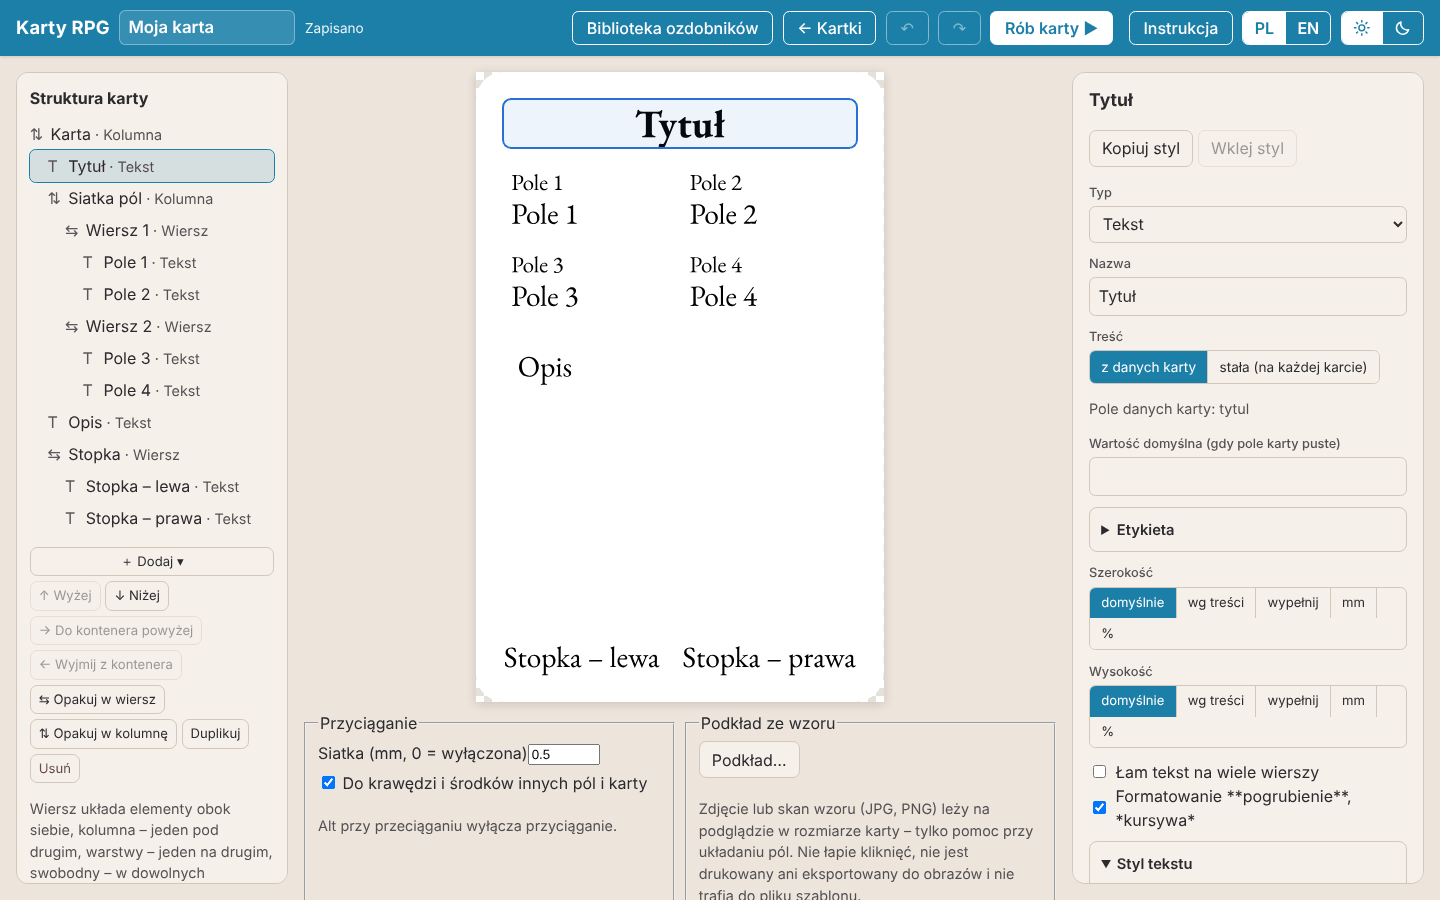
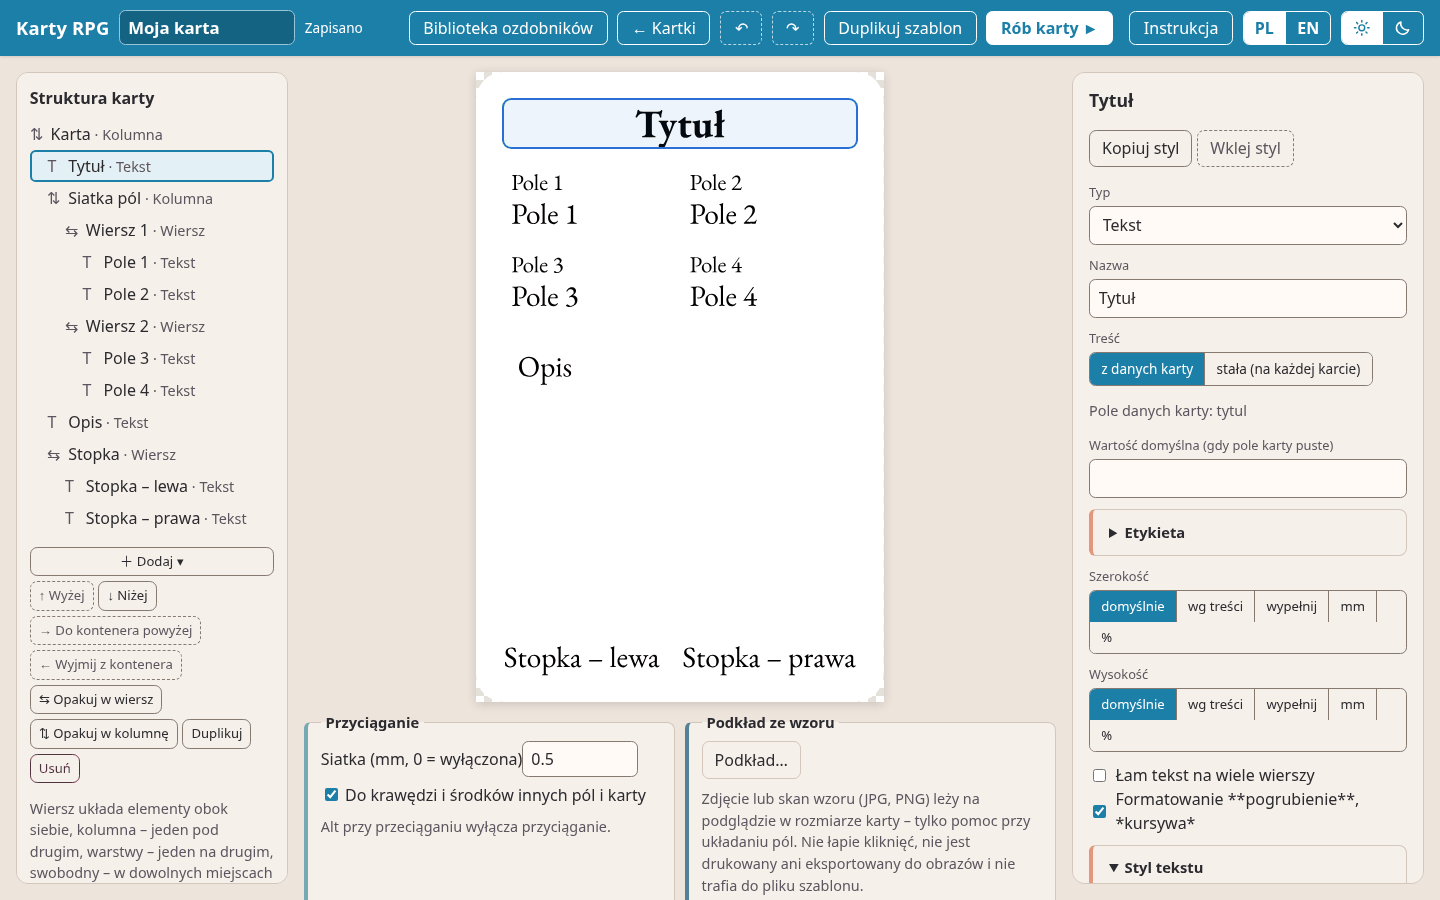
UI-9: uzupełnij README i galerię widoków PL i EN

diff --git a/testy/zrzuty-instrukcji.spec.ts b/testy/zrzuty-instrukcji.spec.ts
@@ -17,6 +17,9 @@ import {
  * ze słowników, więc test nie psuje się po zmianie brzmienia przycisku.
  */
 
+const galeria = process.env.ZRZUTY_UI === '1';
+const motywy = galeria ? (['light', 'dark'] as const) : (['light'] as const);
+
 const SLOWNIKI: Record<JezykZrzutu, Slownik> = { pl, en };
 const LOCALE: Record<JezykZrzutu, string> = { pl: 'pl-PL', en: 'en-US' };
 
@@ -32,27 +35,27 @@ const goly = (tekst: string) =>
 
 const dokladnie = (t: string) => t.replace(/[.*+?^${}()|[\]\\]/g, '\\$&');
 
-for (const jezyk of JEZYKI_ZRZUTOW) {
+for (const [jezyk, motyw] of JEZYKI_ZRZUTOW.flatMap((j) => motywy.map((m) => [j, m] as const))) {
   const S = SLOWNIKI[jezyk];
   const t = (k: keyof Slownik, p?: Record<string, string | number>) => podstaw(S[k], p);
 
-  test.describe(`zrzuty instrukcji (${jezyk})`, () => {
-    test.skip(!process.env.ZRZUTY_INSTRUKCJI, 'tylko przy ZRZUTY_INSTRUKCJI=1');
+  test.describe(`zrzuty ${galeria ? 'UI' : 'instrukcji'} (${jezyk}, ${motyw})`, () => {
+    test.skip(!galeria && !process.env.ZRZUTY_INSTRUKCJI, 'tylko przy włączonym generatorze');
     test.use({
       viewport: ROZMIAR_ZRZUTU,
       deviceScaleFactor: 1,
       locale: LOCALE[jezyk],
-      colorScheme: 'light',
+      colorScheme: motyw,
       reducedMotion: 'reduce',
     });
 
     test.beforeEach(async ({ page }) => {
       await page.addInitScript(
-        ([klucz, wartosc]) => {
-          localStorage.setItem(klucz!, wartosc!);
-          localStorage.setItem('karty.motyw', 'light');
+        ({ jezyk, motyw }) => {
+          localStorage.setItem('karty.jezyk', jezyk);
+          localStorage.setItem('karty.motyw', motyw);
         },
-        ['karty.jezyk', jezyk],
+        { jezyk, motyw },
       );
     });
 
@@ -62,7 +65,11 @@ for (const jezyk of JEZYKI_ZRZUTOW) {
       const status = page.locator('.status-zapisu');
       if (await status.count()) await expect(status).toHaveText(t('projekt.zapisano'));
       await page.mouse.move(0, 0);
-      await page.screenshot({ path: sciezkaZrzutu(jezyk, nazwa) });
+      await page.screenshot({
+        path: galeria
+          ? `docs/obrazy/ui-9/${jezyk}/${motyw}/${nazwa}.png`
+          : sciezkaZrzutu(jezyk, nazwa),
+      });
     };
 
     const nowaKartka = async (page: Page) => {
@@ -111,6 +118,7 @@ for (const jezyk of JEZYKI_ZRZUTOW) {
         .getByRole('menuitem', { name: new RegExp(`^${dokladnie(t('pakiet.typ.bron'))}`) })
         .click();
       await expect(page.getByRole('complementary', { name: t('kartka.panelKart') })).toBeVisible();
+      if (galeria) await zapisz(page, 'karta-zaznaczona');
       await slot(page, 4).click();
       await expect(page.getByRole('menu')).toBeVisible();
       await zapisz(page, 'edytor-kartki');
@@ -118,6 +126,10 @@ for (const jezyk of JEZYKI_ZRZUTOW) {
 
     test('edytor szablonu z panelem właściwości', async ({ page }) => {
       await page.goto('./#/wlasne/nowy');
+      if (galeria) {
+        await expect(page.getByRole('heading', { name: t('kreator.tytul') })).toBeVisible();
+        await zapisz(page, 'kreator');
+      }
       await page.locator('label.format', { hasText: t('kreator.format.mini-euro') }).click();
       await page
         .locator('label.uklad', { hasText: t('kreator.uklad.tytul-siatka-opis-stopka') })
@@ -137,6 +149,13 @@ for (const jezyk of JEZYKI_ZRZUTOW) {
       ).toBeVisible();
       await expect(page.locator('.karta-podgladu')).toBeVisible();
       await zapisz(page, 'edytor-szablonu');
+      if (galeria) {
+        await page.getByRole('link', { name: t('biblioteka.tytul'), exact: true }).click();
+        await expect(
+          page.getByRole('heading', { level: 2, name: t('biblioteka.tytul') }),
+        ).toBeVisible();
+        await zapisz(page, 'biblioteka');
+      }
     });
 
     test('ustawienia kartki: kalibracja drukarki', async ({ page }) => {
@@ -151,5 +170,22 @@ for (const jezyk of JEZYKI_ZRZUTOW) {
         .evaluate((el) => el.scrollIntoView({ block: 'start' }));
       await zapisz(page, 'ustawienia');
     });
+    if (galeria) {
+      test('własne karty', async ({ page }) => {
+        await page.goto('./#/wlasne');
+        await expect(page.locator('[data-podglad] .papier-svg svg')).toHaveCount(6, {
+          timeout: 15000,
+        });
+        await zapisz(page, 'wlasne');
+      });
+
+      test('instrukcja', async ({ page }) => {
+        await page.goto(`./instrukcja/?lang=${jezyk}`);
+        await expect(page.getByRole('heading', { level: 1 })).toHaveText(
+          jezyk === 'pl' ? 'Instrukcja' : 'Guide',
+        );
+        await zapisz(page, 'instrukcja');
+      });
+    }
   });
 }

diff --git a/docs/plan-UI.md b/docs/plan-UI.md
@@ -30,11 +30,11 @@ Po przebudowie:
 - aplikacja ma **jasny i ciemny motyw** w jednej palecie, przełączany u góry po prawej i zapamiętany;
 - w edytorach działają poprawki z sekcji 3.9: duplikowanie szablonu, liczba kopii od razu, przeciąganie pól między kontenerami, wspólna zmiana rozmiaru wielu pól, drobne poprawki wyglądu przykładów.
 
-**Kryterium ukończenia:** wszystkie testy dotychczasowe zielone (wzorce PNG kart, arkuszy i przykładów A–F **nie zmieniają się**, bo generuje je silnik), nowe testy z sekcji 4, a ekrany wyglądają jak makiety w obu motywach i obu językach.
+**Kryterium ukończenia:** dotychczasowe i nowe testy z sekcji 4 są zielone. Wzorce PNG zmieniamy tylko dla zaplanowanych poprawek wyglądu (w UI-8 dotyczyło to tytułu przykładu F). Ekrany przedstawia [galeria w obu motywach i obu językach](obrazy/ui-9/README.md).
 
 Poza zakresem: nowe funkcje silnika, zmiany PDF i formatu plików, kolejne gry, urządzenia dotykowe (układ zaczyna się od szerokości ok. 900 px, na węższych kolumny układają się jedna pod drugą).
 
-## 2. Stan dziś
+## 2. Stan przed przebudową
 
 | Potrzeba                        | Stan | Uwagi                                                                                                                                             |
 | ------------------------------- | ---- | ------------------------------------------------------------------------------------------------------------------------------------------------- |
@@ -306,3 +306,5 @@ Rozstrzygnięcia przyjęte w trakcie UI, których plan nie przesądza. Numeracja
 | B212 | UI-8 | Egzemplarze kart                                | Liczba dotyczy grupy oryginału także po zaznaczeniu kopii. Opcjonalne odwołanie do oryginału i numer utworzenia przechodzą przez zapis oraz zmianę układu. W starych projektach karty bez tej informacji pozostają samodzielne. Usunięcie oryginału pozostawia jego kopie jako samodzielne karty. Pole jest dostępne dla pojedynczej zaznaczonej karty. W mieszanym układzie uwzględnia zapisaną liczbę sztuk w rekordzie oraz pomija odłożone karty.                                                                                                                                                                                                                                                                                                                                                                                                                                                                                                                                                                                                                                                                                                                                                                               |
 | B213 | UI-8 | Duplikowanie szablonu                           | Pasek edytora pozostaje na oryginale i pokazuje link do kopii. Cofnij i Ponów są dostępne po utworzeniu kopii. W ustawieniach kartki kopia pojawia się na liście szablonów projektu.                                                                                                                                                                                                                                                                                                                                                                                                                                                                                                                                                                                                                                                                                                                                                                                                                                                                                                                                                                                                                                                |
 | B214 | UI-8 | Przenoszenie i rozmiar                          | Innym celem może być zagnieżdżony kontener pod kursorem, również w bieżącym rodzicu. W układzie swobodnym upuszczenie zachowuje punkt chwytu względem pola. Skalowanie obejmuje zaznaczenie z jednego rodzica, a pola szerokości i wysokości skalują od lewego górnego rogu.                                                                                                                                                                                                                                                                                                                                                                                                                                                                                                                                                                                                                                                                                                                                                                                                                                                                                                                                                        |
+| B215 | UI-9 | Fokus i klawiatura                              | Aplikacja ma główny region, odnośnik pomijający pasek i przenosi fokus do nagłówka po zmianie trasy, również przy leniwym ładowaniu. Anulowanie usuwania przywraca fokus do wyzwalacza. Ustawienia kierują fokus do nagłówka i zwracają go przy zamknięciu. Nagłówek grupy działa z klawiatury, a drzewo ujawnia rozwinięte gałęzie.                                                                                                                                                                                                                                                                                                                                                                                                                                                                                                                                                                                                                                                                                                                                                                                                                                                                                                |
+| B216 | UI-9 | Galeria                                         | Generator zrzutów instrukcji ma tryb galerii. Zapisuje dziesięć widoków w czterech kombinacjach języka i motywu do `docs/obrazy/ui-9/`, poza zasobami wdrożenia. W instrukcji odświeżono obrazy edytora szablonu po UI-8.                                                                                                                                                                                                                                                                                                                                                                                                                                                                                                                                                                                                                                                                                                                                                                                                                                                                                                                                                                                                           |

diff --git a/README.md b/README.md
@@ -1,7 +1,7 @@
 # Karty RPG
 
 Aplikacja przeglądarkowa do projektowania i drukowania kart do gier RPG i planszowych.
-Specyfikacja: [`SPEC.md`](SPEC.md), plany: [`docs/plan-M2.md`](docs/plan-M2.md), [`docs/plan-M2b.md`](docs/plan-M2b.md).
+Specyfikacja: [`SPEC.md`](SPEC.md), plany: [interfejs](docs/plan-UI.md), [M2](docs/plan-M2.md) i [M2b](docs/plan-M2b.md).
 
 **Aplikacja online:** <https://fronek82.github.io/karty-rpg/>. Działa w całości w przeglądarce;
 projekty zostają na Twoim komputerze (IndexedDB).
@@ -9,6 +9,19 @@ projekty zostają na Twoim komputerze (IndexedDB).
 **Instrukcja** (PL i EN, zrzuty ekranu): przycisk „Instrukcja” na pasku górnym albo bezpośrednio
 <https://fronek82.github.io/karty-rpg/instrukcja/> (`?lang=pl` / `?lang=en`). To osobna, statyczna
 strona (bez Reacta), z tym samym przełącznikiem języka i motywu co aplikacja.
+
+## Ekran startowy
+
+Wybierz **„Stwórz karty do Mausrittera”** lub **„Stwórz własne karty”**. Pośrodku są **„Moje projekty”**,
+a panel importu pozwala wybrać lub upuścić pliki projektów i szablonów.
+
+Przyciski **PL / EN** i **Motyw jasny / Motyw ciemny** znajdują się na pasku górnym.
+Wybór pamięta przeglądarka i korzysta z niego również instrukcja. Bez zapisanego wyboru aplikacja
+używa polskiego w polskiej przeglądarce, angielskiego w pozostałych i motywu systemowego.
+
+![Ekran startowy w jasnym motywie](docs/obrazy/ui-9/pl/light/start.png)
+
+[Galeria ekranów po polsku i po angielsku, w obu motywach](docs/obrazy/ui-9/README.md).
 
 ## Jak zacząć (Mausritter)
 
@@ -18,8 +31,9 @@ strona (bez Reacta), z tym samym przełącznikiem języka i motywu co aplikacja.
    stan, pusta karta). Karta pojawia się w domyślnym rozmiarze dla typu.
 3. **Kliknij kartę** – w panelu z prawej edytujesz jej pola, rozmiar i ilustrację (także zdjęcia
    z telefonu). Shift + klik albo prostokąt zaznaczają kilka kart – wspólne pola zmieniasz naraz.
-4. Karty **przeciągasz myszą** (także na kolejną stronę); „Duplikuj ×N”, Delete, Ctrl+D,
-   Ctrl+Z, strzałki. Na arkuszu stanów dodasz **nagłówek grupy** nad kolumnami.
+4. Karty **przeciągasz myszą**, także na kolejną stronę. **„Duplikuj”** dodaje jedną kopię.
+   **„Liczba kopii”** obejmuje oryginał i kopie. Zmień ją strzałkami, zatwierdź Enterem lub opuść pole.
+   Na arkuszu stanów dodasz **nagłówek grupy** nad kolumnami.
 5. **Ustawienia**: tytuł kartki, czarno-biały, papier, czcionki (także własne).
 6. **Pobierz PDF** i drukuj w **skali 100%** (bez „dopasuj do strony”). **Eksportuj** zapisuje
    projekt do pliku `.kartyrpg` (kopia zapasowa, przeniesienie na inny komputer – import na starcie).
@@ -36,7 +50,9 @@ strona (bez Reacta), z tym samym przełącznikiem języka i motywu co aplikacja.
    opakuj, duplikuj, usuń; klawiatura), w środku podgląd karty (klik zaznacza element), z prawej
    **właściwości**: typ, nazwa, treść z danych karty albo stała, etykieta, szerokość i wysokość,
    styl tekstu, tło, ramka, odstępy, kształt wartości, tabela (kolumny, wiersze, nagłówki, linie).
-   Shift + klik – kilka elementów naraz; Kopiuj / Wklej styl.
+   Shift + klik zaznacza kilka elementów. Przeciągaj pola między kontenerami, a w kontenerze
+   swobodnym zmieniaj wspólny rozmiar zaznaczenia uchwytami lub w panelu. Przycisk **„Duplikuj szablon”**
+   udostępnia kopię do dalszej edycji.
 3. **„Rób karty ►”** – kartka dla rozmiaru szablonu; klik w slot dodaje kartę, panel pokazuje pola
    z nazwami z szablonu. W treści pól działa formatowanie: `**pogrubienie**`, `*kursywa*`,
    `***oba***` (`\*` – zwykła gwiazdka). **„Edytuj szablon”** wraca do edytora.

diff --git a/docs/obrazy/ui-9/README.md b/docs/obrazy/ui-9/README.md
@@ -1,0 +1,22 @@
+# Galeria interfejsu
+
+Zrzuty przedstawiają okno 1440 × 900 w Chromium z przykładowymi danymi aplikacji.
+
+| Widok                 | PL · jasny                           | PL · ciemny                         | EN · jasny                           | EN · ciemny                         |
+| --------------------- | ------------------------------------ | ----------------------------------- | ------------------------------------ | ----------------------------------- |
+| Start                 | [PNG](pl/light/start.png)            | [PNG](pl/dark/start.png)            | [PNG](en/light/start.png)            | [PNG](en/dark/start.png)            |
+| Mausritter            | [PNG](pl/light/mausritter.png)       | [PNG](pl/dark/mausritter.png)       | [PNG](en/light/mausritter.png)       | [PNG](en/dark/mausritter.png)       |
+| Własne karty          | [PNG](pl/light/wlasne.png)           | [PNG](pl/dark/wlasne.png)           | [PNG](en/light/wlasne.png)           | [PNG](en/dark/wlasne.png)           |
+| Kreator szablonu      | [PNG](pl/light/kreator.png)          | [PNG](pl/dark/kreator.png)          | [PNG](en/light/kreator.png)          | [PNG](en/dark/kreator.png)          |
+| Edytor szablonu       | [PNG](pl/light/edytor-szablonu.png)  | [PNG](pl/dark/edytor-szablonu.png)  | [PNG](en/light/edytor-szablonu.png)  | [PNG](en/dark/edytor-szablonu.png)  |
+| Edytor kartki         | [PNG](pl/light/karta-zaznaczona.png) | [PNG](pl/dark/karta-zaznaczona.png) | [PNG](en/light/karta-zaznaczona.png) | [PNG](en/dark/karta-zaznaczona.png) |
+| Menu typów kart       | [PNG](pl/light/edytor-kartki.png)    | [PNG](pl/dark/edytor-kartki.png)    | [PNG](en/light/edytor-kartki.png)    | [PNG](en/dark/edytor-kartki.png)    |
+| Ustawienia kartki     | [PNG](pl/light/ustawienia.png)       | [PNG](pl/dark/ustawienia.png)       | [PNG](en/light/ustawienia.png)       | [PNG](en/dark/ustawienia.png)       |
+| Biblioteka ozdobników | [PNG](pl/light/biblioteka.png)       | [PNG](pl/dark/biblioteka.png)       | [PNG](en/light/biblioteka.png)       | [PNG](en/dark/biblioteka.png)       |
+| Instrukcja            | [PNG](pl/light/instrukcja.png)       | [PNG](pl/dark/instrukcja.png)       | [PNG](en/light/instrukcja.png)       | [PNG](en/dark/instrukcja.png)       |
+
+Z katalogu głównego repozytorium uruchom generator po zainstalowaniu Chromium dla Playwright.
+
+```sh
+ZRZUTY_UI=1 npm run e2e -- testy/zrzuty-instrukcji.spec.ts --workers=2
+```
